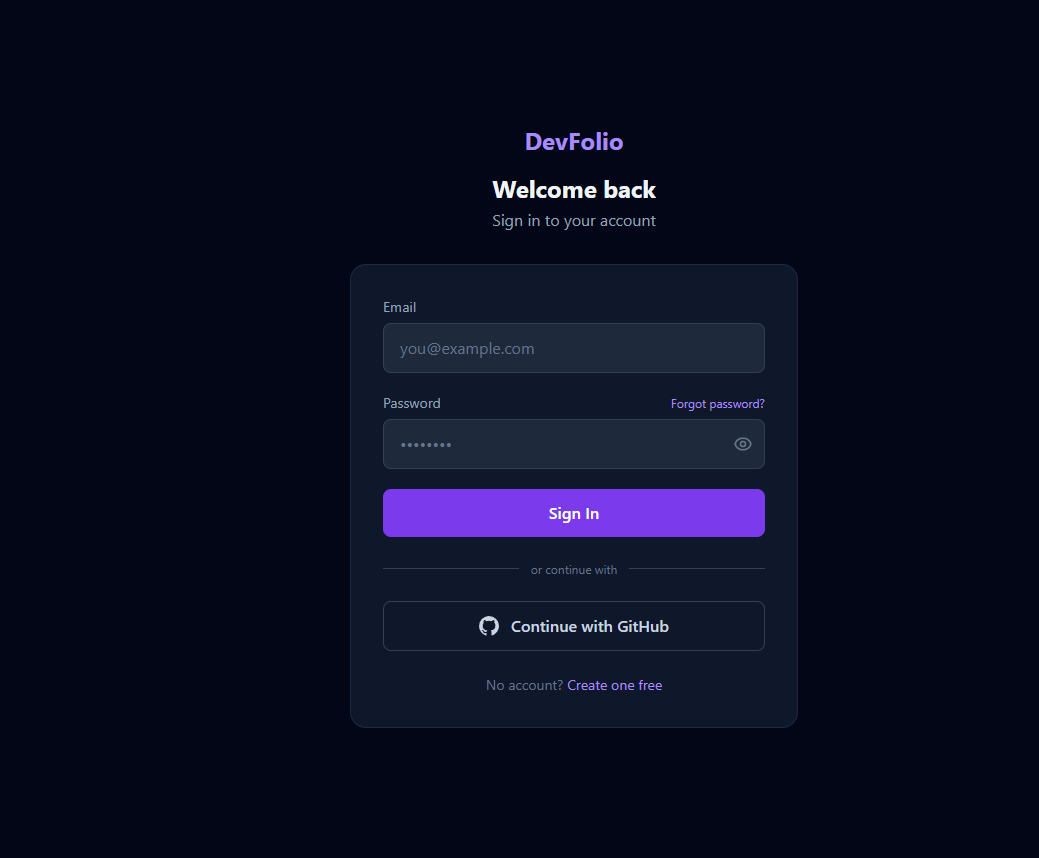
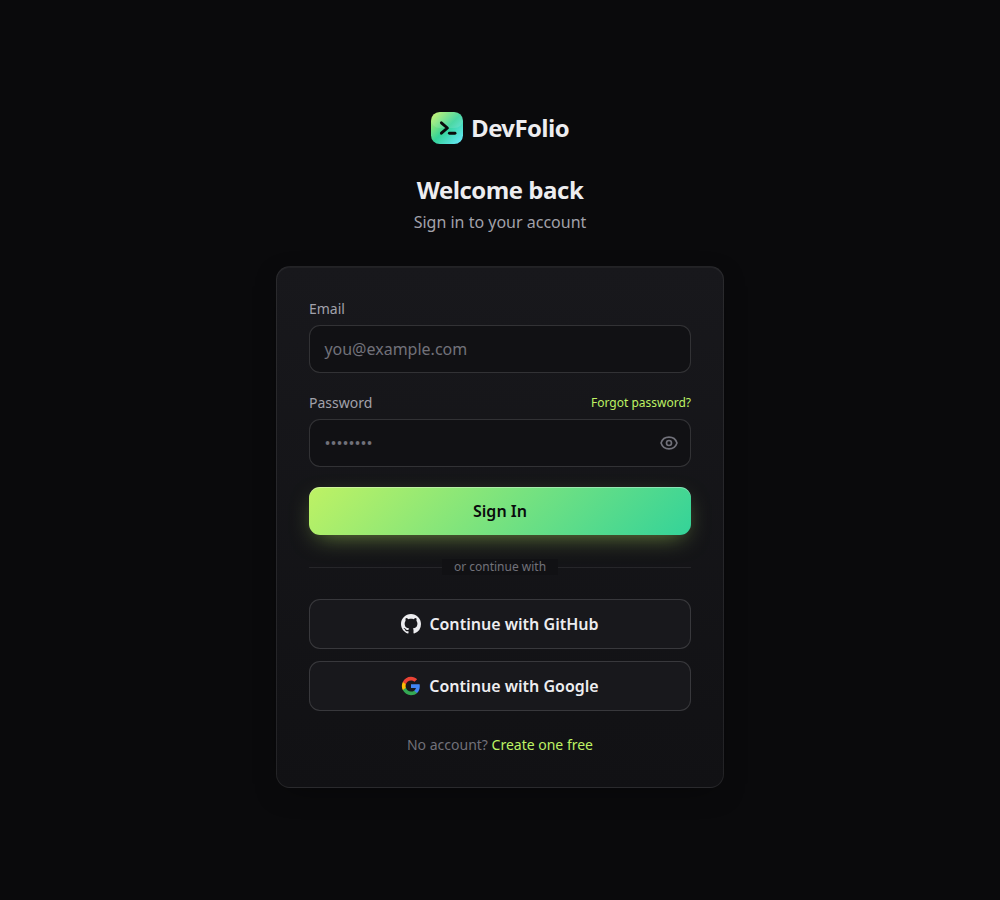
📸 Pensieve refresh: authenticated-page screenshots match the new look
Sign up, login, profile, editor, live portfolio, and resume editor
screenshots were all from the old purple pre-redesign theme (some
predating the Midnight Aurora look entirely). Retook every one against
a real seeded account. Dropped the Onboarding shot (that flow no longer
exists) in favor of Dashboard, and added a Resume list shot — neither
had a screenshot before.

Changed region(s): [[0.279, 0.303, 0.775, 0.8485], [0.403, 0.1212, 0.651, 0.2727], [0.31, 0.697, 0.341, 0.7576]]

diff --git a/README.md b/README.md
@@ -95,26 +95,28 @@ DevFolio gives you both, in one app. Edit visually. Own your data. Export anytim
     <td><img src="./screenshots/login.PNG" alt="Login"/></td>
   </tr>
   <tr>
-    <td><strong>Onboarding</strong></td>
+    <td><strong>Dashboard</strong></td>
     <td><strong>Profile</strong></td>
   </tr>
   <tr>
-    <td><img src="./screenshots/onboarding.PNG" alt="Onboarding"/></td>
+    <td><img src="./screenshots/dashboard.png" alt="Dashboard"/></td>
     <td><img src="./screenshots/profile.PNG" alt="Profile"/></td>
   </tr>
   <tr>
-    <td><strong>Editor</strong></td>
+    <td><strong>Portfolio editor</strong></td>
     <td><strong>Live Portfolio</strong></td>
   </tr>
   <tr>
-    <td><img src="./screenshots/port.PNG" alt="Editor"/></td>
+    <td><img src="./screenshots/port.PNG" alt="Portfolio editor"/></td>
     <td><img src="./screenshots/live.PNG" alt="Live Portfolio"/></td>
   </tr>
   <tr>
-    <td colspan="2"><strong>Resume editor</strong></td>
+    <td><strong>Resume list</strong></td>
+    <td><strong>Resume editor (with ATS Match)</strong></td>
   </tr>
   <tr>
-    <td colspan="2"><img src="./screenshots/resume.PNG" alt="Resume editor"/></td>
+    <td><img src="./screenshots/resumelist.png" alt="Resume list"/></td>
+    <td><img src="./screenshots/resume.PNG" alt="Resume editor"/></td>
   </tr>
 </table>
 
